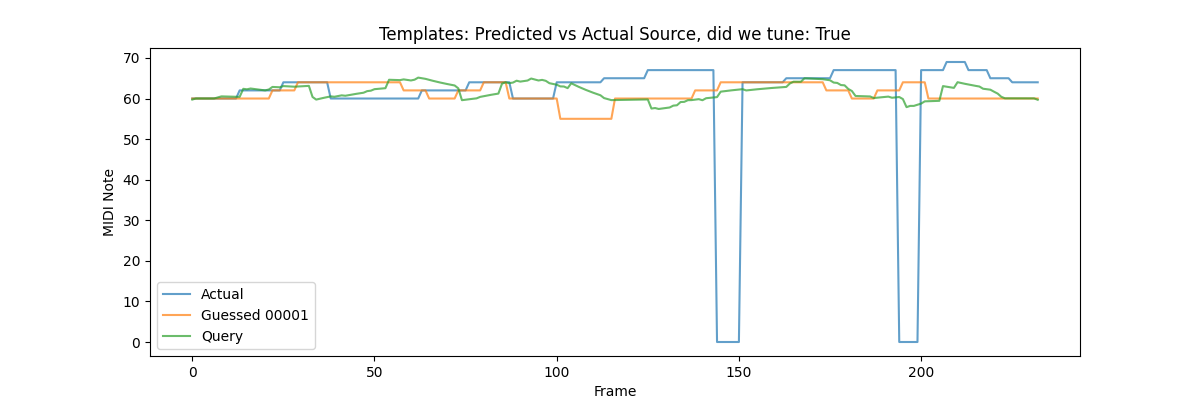
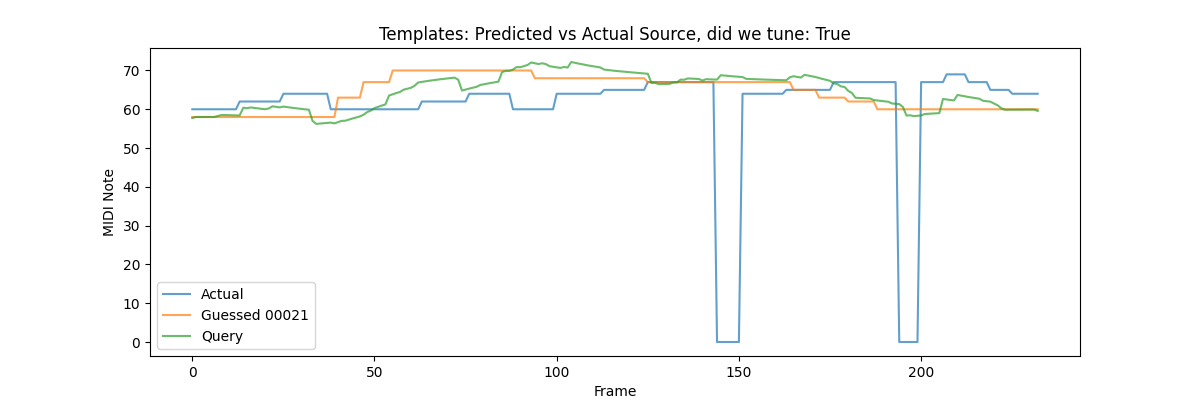
feat: added warping dtw before we do the tune-following?
Reread the paper and noticed:

"
Basically, for any query-template pair of pitch vectors be-
ing compared, the optimal warping path is found with the
DTW algorithm. Then, the consecutive pitch values qi of
the time-warped query are compared to the corresponding
pitch values ti in the template, in order to produce a mod-
ified query sequence ˆq.
"

I think this was the right impl? didnt change much

diff --git a/dtw_wrapper.py b/dtw_wrapper.py
@@ -54,8 +54,8 @@ class DTWWrapper():
         """
         # recursively calculate tune following
         q_len = min(map(len, [query, template]))
-        np.resize(query, (q_len,))
-        np.resize(template, (q_len,))
+        query = np.resize(query, (q_len,))
+        template = np.resize(template, (q_len,))
 
         # preallocate array to hold the query w/ tune following
         query_wtf = np.empty([q_len,], dtype=np.float64)*np.nan
@@ -67,7 +67,9 @@ class DTWWrapper():
             query_wtf,
             np.float64(align_speed)
         )
+
         return query + query_wtf
+
 
     # public
 
@@ -99,7 +101,17 @@ class DTWWrapper():
             query_in -= d_beg
 
             if tuned:
-                query: np.ndarray = self._tune_follow(query_in, template)
+                D, wp = librosa.sequence.dtw(
+                    Y=query_in,
+                    X=template[0:len(query_in)],
+                    band_rad=0.5
+                )
+                warped_query = query_in[wp[:,0][::-1]]
+
+                query: np.ndarray = self._tune_follow(
+                    warped_query,
+                    template
+                )
             else:
                 query: np.ndarray = query_in
 
